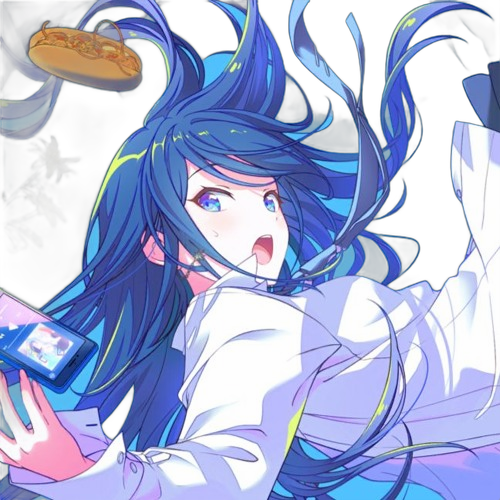
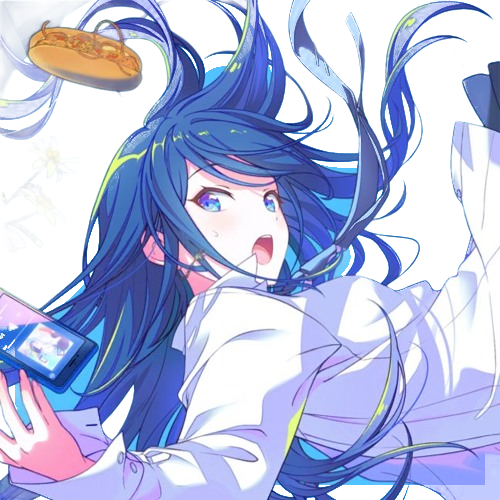
Update: Add Hybrid Mode (AI + Color Matting with Core Protection) for perfect hair extraction, update README

diff --git a/remove_bg_smart.py b/remove_bg_smart.py
@@ -68,11 +68,11 @@ def remove_bg_solid(image_path, output_path, tolerance=40, low_tolerance=15):
     print(f"Saved transparent image (Solid Mode) to: {output_path}")
 
 
-def remove_bg_ai(image_path, output_path, model_name="isnet-general"):
+def remove_bg_ai(image_path, output_path, model_name="isnet-general", alpha_matting=False, post_process_mask=False):
     try:
         from rembg import remove, new_session
     except ImportError:
-        print("\n[!] Error: The 'rembg' library is required for AI mode.")
+        print("\n[!] Error: The 'rembg' library is required for AI/Hybrid mode.")
         print("Please install it using: pip install rembg")
         print("Note: To run with GPU support, install: pip install rembg[gpu]\n")
         sys.exit(1)
@@ -83,8 +83,13 @@ def remove_bg_ai(image_path, output_path, model_name="isnet-general"):
     print(f"Initializing AI model '{model_name}' (this may take a few seconds on first run)...")
     try:
         session = new_session(model_name)
-        print("Processing background removal using AI...")
-        out_img = remove(img, session=session)
+        print(f"Processing background removal (alpha_matting={alpha_matting}, post_process_mask={post_process_mask})...")
+        out_img = remove(
+            img, 
+            session=session,
+            alpha_matting=alpha_matting,
+            post_process_mask=post_process_mask
+        )
         out_img.save(output_path, "PNG")
         print(f"Saved transparent image (AI Mode) to: {output_path}")
     except Exception as e:
@@ -92,42 +97,129 @@ def remove_bg_ai(image_path, output_path, model_name="isnet-general"):
         sys.exit(1)
 
 
+def remove_bg_hybrid(image_path, output_path, model_name="isnet-anime", tolerance=75, low_tolerance=35, erosion_iterations=15):
+    try:
+        from rembg import remove, new_session
+    except ImportError:
+        print("\n[!] Error: The 'rembg' library is required for Hybrid mode.")
+        print("Please install it using: pip install rembg")
+        sys.exit(1)
+        
+    print(f"Loading image for Hybrid processing: {image_path}")
+    img = Image.open(image_path).convert("RGBA")
+    arr = np.array(img)
+    
+    # 1. Run AI to get the initial alpha mask
+    print(f"Running AI segmentation using '{model_name}' to find character boundaries...")
+    try:
+        session = new_session(model_name)
+        ai_out = remove(img, session=session)
+        ai_arr = np.array(ai_out)
+        ai_alpha = ai_arr[:, :, 3].astype(np.float32)
+    except Exception as e:
+        print(f"[!] AI phase failed: {e}")
+        sys.exit(1)
+        
+    # 2. Detect the background color dynamically from AI-confirmed background pixels (alpha == 0)
+    bg_pixels = arr[ai_alpha == 0, :3]
+    if len(bg_pixels) == 0:
+        # Fallback to corner pixels if AI mask covers the entire image
+        h, w, _ = arr.shape
+        corners = [arr[0, 0, :3], arr[0, w-1, :3], arr[h-1, 0, :3], arr[h-1, w-1, :3]]
+        bg_color = np.mean(corners, axis=0).astype(np.int32)
+    else:
+        bg_color = np.mean(bg_pixels, axis=0).astype(np.int32)
+    print(f"Detected background color from AI-background region: {bg_color}")
+    
+    # 3. Calculate distance to background color for each pixel
+    diff = arr[:, :, :3].astype(np.int32) - bg_color
+    dist = np.sqrt(np.sum(diff ** 2, axis=-1))
+    
+    # 4. Create a Core Protection Mask by eroding the character mask
+    # This prevents details inside the character's body (like blue eyes or highlights) from turning transparent
+    character_mask = ai_alpha > 127
+    core_mask = ndimage.binary_erosion(character_mask, iterations=erosion_iterations)
+    
+    # 5. Color-based transparency multiplier
+    with np.errstate(divide='ignore', invalid='ignore'):
+        color_factor = (dist - low_tolerance) / (tolerance - low_tolerance)
+        color_factor = np.clip(color_factor, 0.0, 1.0)
+        
+    # Apply core protection: pixels in core_mask must remain fully opaque/unmodified by color distance
+    color_factor[core_mask] = 1.0
+    
+    # Multiply the AI alpha by the color factor
+    new_alpha = (ai_alpha * color_factor).astype(np.uint8)
+    
+    # Update alpha channel and save
+    arr[:, :, 3] = new_alpha
+    out_img = Image.fromarray(arr)
+    out_img.save(output_path, "PNG")
+    print(f"Saved transparent image (Hybrid Mode) to: {output_path}")
+
+
 def main():
     parser = argparse.ArgumentParser(
-        description="Smart Background Remover: Supports precise solid color keying and advanced AI-based segmentation."
+        description="Smart Background Remover: Supports precise solid color keying, standard AI segmentation, and hybrid matting."
     )
     parser.add_argument("input", help="Path to input image file")
     parser.add_argument("output", help="Path to output transparent PNG file")
     parser.add_argument(
         "--mode", 
-        choices=["solid", "ai"], 
+        choices=["solid", "ai", "hybrid"], 
         default="solid", 
-        help="Processing mode: 'solid' for solid/logo backgrounds (flood-fill), 'ai' for complex/scenic backgrounds"
+        help="Processing mode: 'solid' for logos/solid backgrounds, 'ai' for general photos, 'hybrid' for complex anime/illustration hair details"
     )
     parser.add_argument(
         "--model", 
-        default="isnet-general", 
-        help="AI model to use (only for --mode ai). Examples: isnet-general (best for anime/illustrations), birefnet-general (best for general images), u2net"
+        default="isnet-anime", 
+        help="AI model to use (for 'ai' and 'hybrid' modes). Examples: isnet-anime (anime), birefnet-general (general), u2net"
     )
     parser.add_argument(
         "--tolerance", 
         type=int, 
         default=40, 
-        help="Tolerance threshold for solid background detection (only for --mode solid)"
+        help="Tolerance threshold for background color detection (default: 40 for solid, 75 for hybrid)"
     )
     parser.add_argument(
         "--low-tolerance", 
         type=int, 
         default=15, 
-        help="Lower tolerance limit for soft edge blending (only for --mode solid)"
+        help="Lower tolerance limit for soft edge blending (default: 15 for solid, 35 for hybrid)"
+    )
+    parser.add_argument(
+        "--alpha-matting",
+        action="store_true",
+        help="Use rembg built-in alpha matting for edge/hair refinement (only for --mode ai)"
+    )
+    parser.add_argument(
+        "--post-process-mask",
+        action="store_true",
+        help="Post process the mask to clean up small artifacts (only for --mode ai)"
+    )
+    parser.add_argument(
+        "--erosion-iterations",
+        type=int,
+        default=15,
+        help="Number of erosion iterations to protect the core body of the character (only for --mode hybrid)"
     )
     
     args = parser.parse_args()
     
+    # Apply context-aware defaults for tolerance if they were not explicitly changed
+    if args.mode == "hybrid":
+        # Check if they are still at default values, if so, upgrade to hybrid defaults
+        if args.tolerance == 40:
+            args.tolerance = 75
+        if args.low_tolerance == 15:
+            args.low_tolerance = 35
+            
     if args.mode == "solid":
         remove_bg_solid(args.input, args.output, args.tolerance, args.low_tolerance)
     elif args.mode == "ai":
-        remove_bg_ai(args.input, args.output, args.model)
+        remove_bg_ai(args.input, args.output, args.model, args.alpha_matting, args.post_process_mask)
+    elif args.mode == "hybrid":
+        remove_bg_hybrid(args.input, args.output, args.model, args.tolerance, args.low_tolerance, args.erosion_iterations)
 
 
 if __name__ == "__main__":

diff --git a/README.md b/README.md
@@ -2,9 +2,10 @@
 
 [Tiếng Việt bên dưới](#tiếng-việt)
 
-A high-precision, offline Python tool designed to remove backgrounds from both logos/graphics and complex illustrations. It supports two distinct modes:
+A high-precision, offline Python tool designed to remove backgrounds from both logos/graphics and complex illustrations. It supports three distinct modes:
 1. **Solid Mode (`--mode solid`)**: A custom flood-fill algorithm based on color distance that is pixel-perfect for logos, icons, and flat vectors on a solid background (preserves outline borders where AI usually fails).
-2. **AI Mode (`--mode ai`)**: Integrated deep learning segmentation via `rembg` (supporting models like `isnet-anime` and `birefnet-general`) for complex drawings, illustrations, and photos with gradients or detailed backgrounds.
+2. **AI Mode (`--mode ai`)**: Integrated deep learning segmentation via `rembg` (supporting models like `isnet-anime` and `birefnet-general`) for general photos and objects.
+3. **Hybrid Mode (`--mode hybrid`)**: Combines AI segmentation (`isnet-anime`) with a **Core Protection Mask** and **Color-Distance Keying**. This is the ultimate mode for complex illustrations (e.g. anime characters) to cleanly remove background bleeding between fine hair strands while keeping the face, eyes, and clothing 100% solid.
 
 ---
 
@@ -17,8 +18,8 @@ A high-precision, offline Python tool designed to remove backgrounds from both l
 | --- | --- |
 | ![Logo Input](images/input.jpg) | ![Logo Output](images/output.png) |
 
-### 2. AI Mode (`--mode ai`) - Best for Complex Drawings & Anime
-*Handles gradient backgrounds, floating objects, and complex character details using neural network models (e.g. `isnet-anime`).*
+### 2. Hybrid Mode (`--mode hybrid`) - Best for Complex Drawings & Anime Hair
+*Handles gradient backgrounds, floating objects, and fine hair details without leaving background color casts or bleeding.*
 
 | Input Image (`images/input_complex.jpg`) | Output Image (`images/output_complex.png`) |
 | --- | --- |
@@ -27,10 +28,10 @@ A high-precision, offline Python tool designed to remove backgrounds from both l
 ---
 
 ## Features
-- **Dual Processing Engines:** Choose between high-precision color-keying or state-of-the-art AI segmentation.
+- **Three Processing Engines:** Choose between Solid, AI, or Hybrid mode based on your image type.
+- **Core Protection Mask:** Hybrid mode protects the inner parts of the character (eyes, face, body) using binary erosion, ensuring color-keying only cleans up outer hair strands and gaps.
 - **Preserves Details:** Solid mode guarantees 100% border preservation (won't crop circular frames or thin lines).
-- **Keeps Internal Details:** Solid mode only removes background connected to the borders; inner elements remain untouched.
-- **Soft-Alpha Edge Matting:** Smooths borders to completely eliminate pixelated edges or white halo fringing.
+- **Soft-Alpha Edge Matting:** Smooths borders to completely eliminate pixelated edges or color halos.
 - **Full Resolution:** Keeps 100% of the original resolution and quality (supports 2K, 4K, 8K+).
 - **100% Offline & Private:** Run completely locally on your system.
 
@@ -43,7 +44,7 @@ A high-precision, offline Python tool designed to remove backgrounds from both l
    ```bash
    pip install -r requirements.txt
    ```
-3. *(Optional)* If you plan to use the **AI Mode (`--mode ai`)**, install the AI engine:
+3. *(Optional)* If you plan to use the **AI Mode** or **Hybrid Mode**, install the AI engine:
    ```bash
    pip install rembg
    # For GPU acceleration, run instead:
@@ -60,13 +61,14 @@ python remove_bg_smart.py <input_path> <output_path> [options]
 ```
 
 ### Options:
-- `--mode {solid,ai}`: Select processing engine. Default is `solid`.
-- `--model MODEL`: Specify AI model name (only in `ai` mode). 
+- `--mode {solid,ai,hybrid}`: Select processing engine. Default is `solid`.
+- `--model MODEL`: Specify AI model name (for `ai` and `hybrid` modes). 
   - `isnet-anime` (default): Best for anime and illustrations.
   - `birefnet-general`: Best for real photos and objects.
-  - `u2net`: General-purpose model.
-- `--tolerance TOL`: Color threshold limit for background detection (only in `solid` mode, default: `40`).
-- `--low-tolerance LOW_TOL`: Edge blending lower limit for soft transparency (only in `solid` mode, default: `15`).
+- `--tolerance TOL`: Color threshold limit for background detection (default: `40` for solid, `75` for hybrid).
+- `--low-tolerance LOW_TOL`: Edge blending lower limit for soft transparency (default: `15` for solid, `35` for hybrid).
+- `--erosion-iterations ITER`: Size of the protection mask (default: `15`, only in `hybrid` mode). Higher values protect more of the inner body.
+- `--alpha-matting`: Use rembg built-in alpha matting (only in `ai` mode).
 
 ### Examples:
 **Tách nền logo trắng (Solid Mode):**
@@ -74,9 +76,9 @@ python remove_bg_smart.py <input_path> <output_path> [options]
 python remove_bg_smart.py images/input.jpg images/output.png --mode solid
 ```
 
-**Tách nền tranh anime phức tạp (AI Mode):**
+**Tách tranh anime phức tạp (Hybrid Mode - Khuyên dùng cho tóc khó):**
 ```bash
-python remove_bg_smart.py images/input_complex.jpg images/output_complex.png --mode ai --model isnet-anime
+python remove_bg_smart.py images/input_complex.jpg images/output_complex.png --mode hybrid --model isnet-anime
 ```
 
 ---
@@ -84,18 +86,11 @@ python remove_bg_smart.py images/input_complex.jpg images/output_complex.png --m
 <a name="tiếng-việt"></a>
 # Smart Background Remover (Bộ Tách Nền Thông Minh)
 
-Công cụ Python chạy offline với độ chính xác cao, hỗ trợ tách nền cho cả logo phẳng đơn sắc và tranh vẽ minh họa phức tạp. Dự án tích hợp hai chế độ hoạt động:
+Công cụ Python chạy offline với độ chính xác cao, hỗ trợ tách nền cho cả logo phẳng đơn sắc và tranh vẽ minh họa phức tạp. Dự án tích hợp ba chế độ hoạt động:
 
-1.  **Solid Mode (`--mode solid`)**: Thuật toán loang vùng (flood-fill) tùy biến dựa trên khoảng cách màu. Cực kỳ chính xác cho logo, icon, vector trên nền phẳng (bảo vệ hoàn hảo viền tròn ngoài mà AI thường cắt lẹm).
-2.  **AI Mode (`--mode ai`)**: Sử dụng mạng nơ-ron tích hợp thông qua thư viện `rembg` (hỗ trợ model `isnet-anime` và `birefnet-general`) để tách nền phức tạp, nền gradient hoặc ảnh đời thực.
-
-## Tham số dòng lệnh:
-- `--mode {solid,ai}`: Chọn chế độ xử lý. Mặc định là `solid`.
-- `--model MODEL`: Tên mô hình AI sử dụng (chỉ áp dụng ở chế độ `ai`).
-  - `isnet-anime` (mặc định): Tốt nhất cho tranh vẽ anime, manga.
-  - `birefnet-general`: Tốt nhất cho ảnh chụp thật và vật thể.
-- `--tolerance TOL`: Ngưỡng nhận diện màu nền (chỉ ở chế độ `solid`, mặc định: `40`).
-- `--low-tolerance LOW_TOL`: Ngưỡng làm mờ cạnh để khử răng cưa (chỉ ở chế độ `solid`, mặc định: `15`).
+1.  **Solid Mode (`--mode solid`)**: Thuật toán loang vùng (flood-fill) tùy biến. Cực kỳ chính xác cho logo, icon trên nền phẳng (bảo vệ viền tròn ngoài mà AI thường cắt lẹm).
+2.  **AI Mode (`--mode ai`)**: Sử dụng mạng nơ-ron thông qua thư viện `rembg` cho ảnh chụp và vật thể thông thường.
+3.  **Hybrid Mode (`--mode hybrid`)**: Kết hợp phân tách AI (`isnet-anime`) với **Mặt nạ bảo vệ lõi** (Core Protection Mask) và **Khoảng cách màu**. Đây là chế độ tốt nhất cho tranh anime phức tạp, giúp xóa sạch màu nền bị kẹt giữa các khe tóc nhỏ mà không làm hỏng mắt, da, hay quần áo nhân vật.
 
 ## Lệnh mẫu:
 **Tách logo nền trắng:**
@@ -103,7 +98,7 @@ Công cụ Python chạy offline với độ chính xác cao, hỗ trợ tách n
 python remove_bg_smart.py images/input.jpg images/output.png --mode solid
 ```
 
-**Tách hình vẽ anime phức tạp:**
+**Tách hình vẽ anime phức tạp (Chế độ Hybrid - Sạch kẽ tóc):**
 ```bash
-python remove_bg_smart.py images/input_complex.jpg images/output_complex.png --mode ai --model isnet-anime
+python remove_bg_smart.py images/input_complex.jpg images/output_complex.png --mode hybrid
 ```
